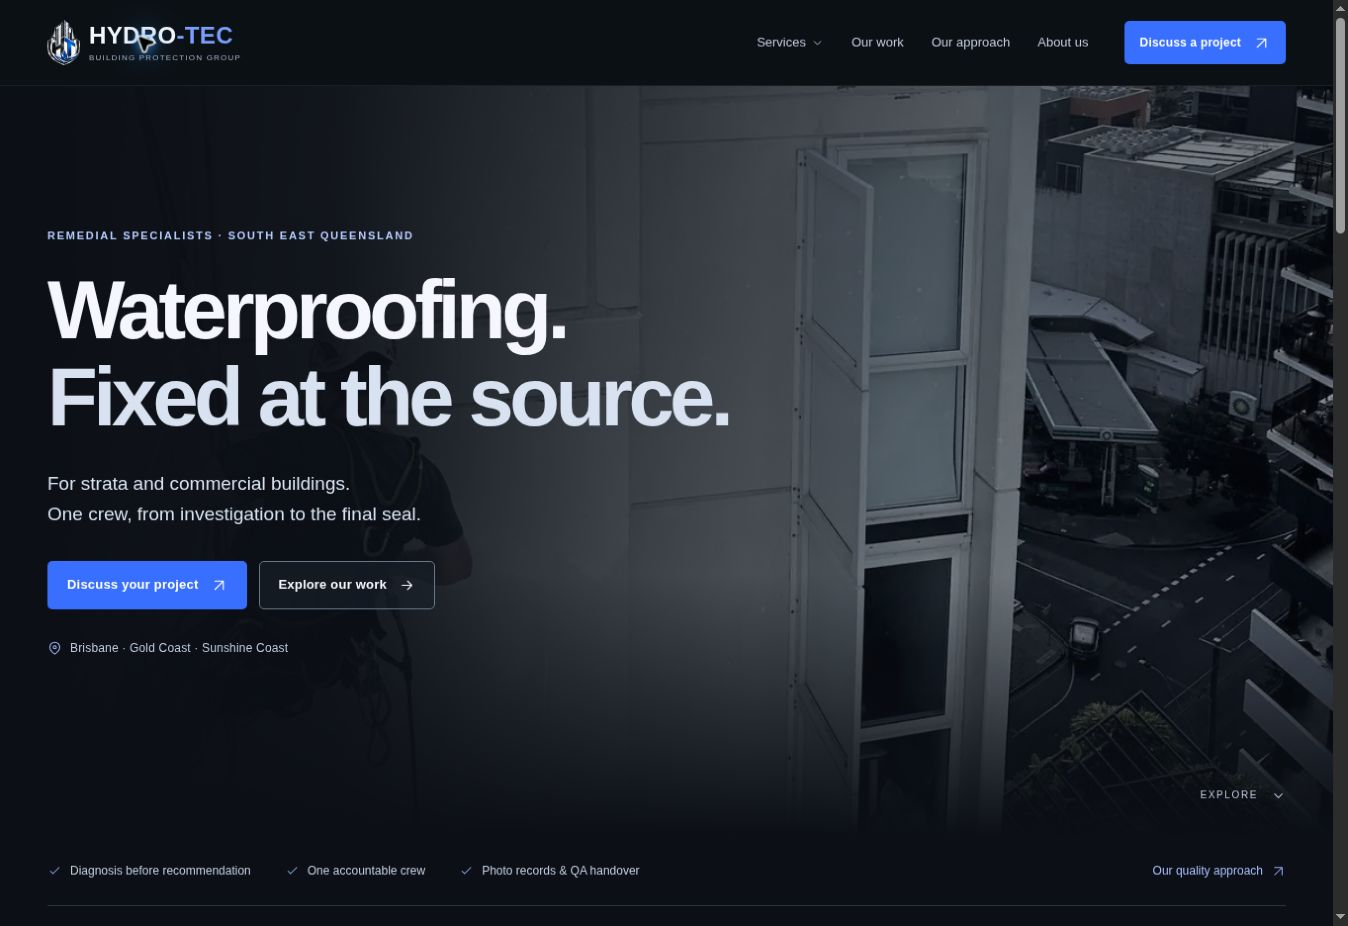
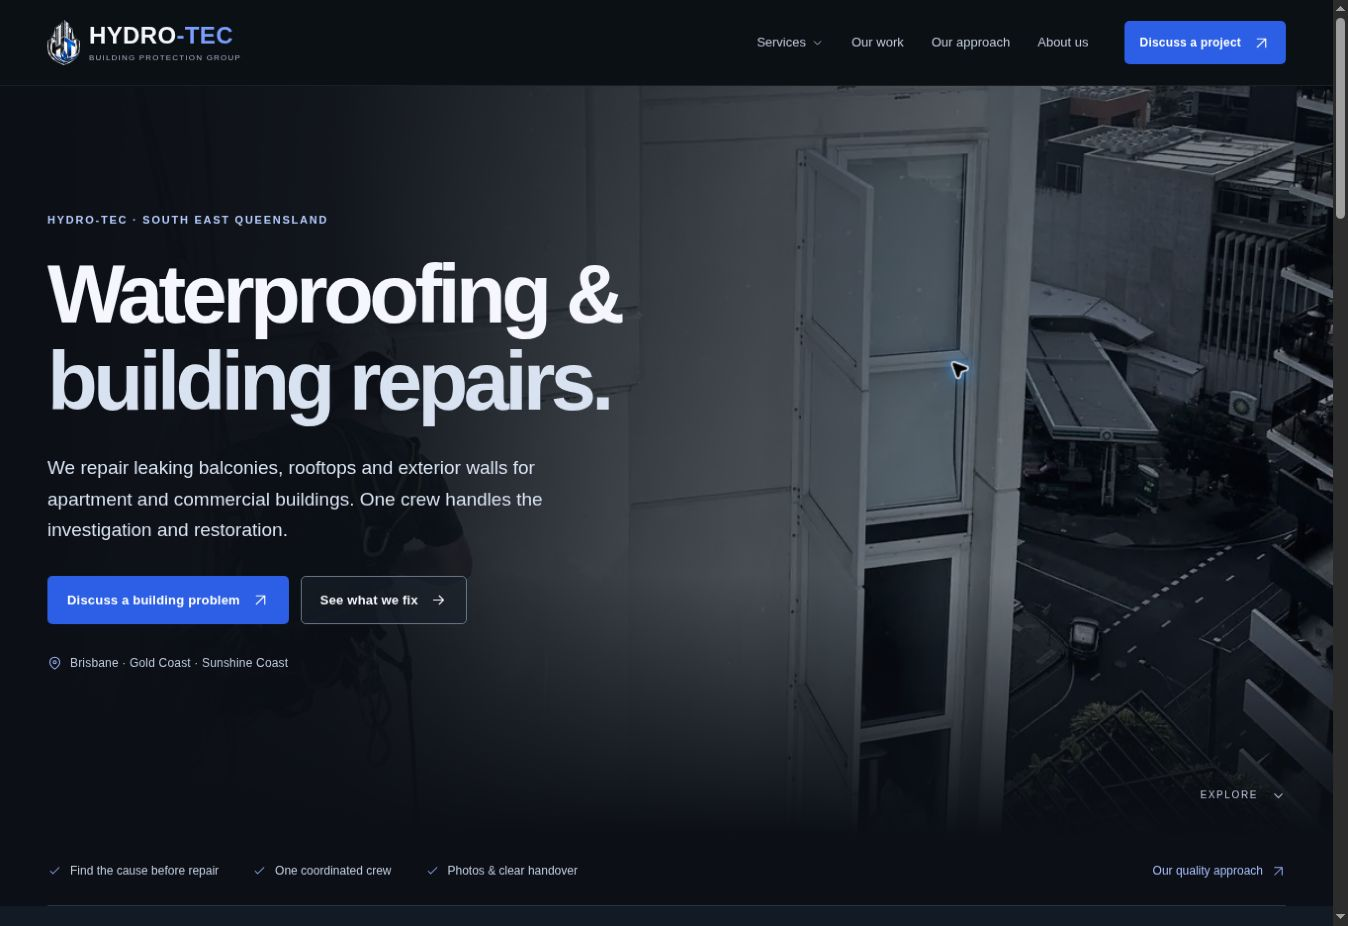
docs: record verified clarity preview and live enquiry checks

diff --git a/docs/code-walkthrough.md b/docs/code-walkthrough.md
@@ -146,10 +146,20 @@ not sufficient. Never paste credential values into a review or issue.
 ## 9. Release and review
 
 Source changes are committed using the owner's GitHub identity. Author and
-committer are verified before moving a branch. CI runs before main is advanced.
+committer are verified before moving a branch. The tested review branch is
+`clarity-and-qa-20261102`, with the code review in pull request #1. The AWS preview
+has been updated from that branch; `main` remains unchanged pending the owner's
+merge approval.
 For the AWS backend, the generated template is validated and its change set is
 checked for replacements and validation errors before execution. Static assets
 are uploaded before HTML, then the CloudFront cache is invalidated.
+
+The live visitor check followed a balcony problem through its service page to
+the preselected contact form. A labelled test reached the test mailbox's Inbox,
+and repeating the submission returned the same reference without another email.
+The live API also accepted elapsed timing when the supplied device clock was
+seven days ahead. The public homepage capture is `website-preview.jpg`; private
+message records and enquiry references are not included in the repository.
 
 The connected app cannot activate GitHub administration settings or register an
 owner's MFA device. A disabled ruleset import is prepared in

diff --git a/docs/operations.md b/docs/operations.md
@@ -92,3 +92,16 @@ by release checks. The step-by-step code guide is `code-walkthrough.md`.
 Owner-only branch protection/MFA remain unapplied; a disabled ruleset import is
 prepared. Google, DNS, business verification, advertising and existing routing
 of test enquiries are outside this follow-up.
+
+The clarity release is deployed to the AWS preview from the tested
+`clarity-and-qa-20261102` review branch. Pull request #1 remains open and `main`
+has not been advanced. The public homepage screenshot has been refreshed.
+
+After deployment, a visitor journey from a balcony problem to its service and
+preselected enquiry form completed successfully. The labelled enquiry reached
+the test mailbox's Inbox and its targeted delivery status was `SENT`. Repeating
+the same submission with a simulated device clock seven days ahead returned the
+same reference without another email. CloudFront invalidation completed and all
+three enquiry failure alarms reported `OK`. No new AWS resources or services
+were added by this follow-up. Domain-authenticated email remains a launch
+dependency; this Inbox result is a test observation, not a delivery guarantee.
